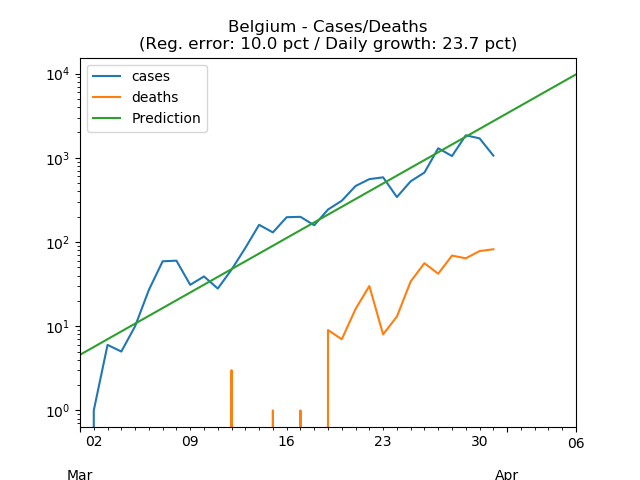
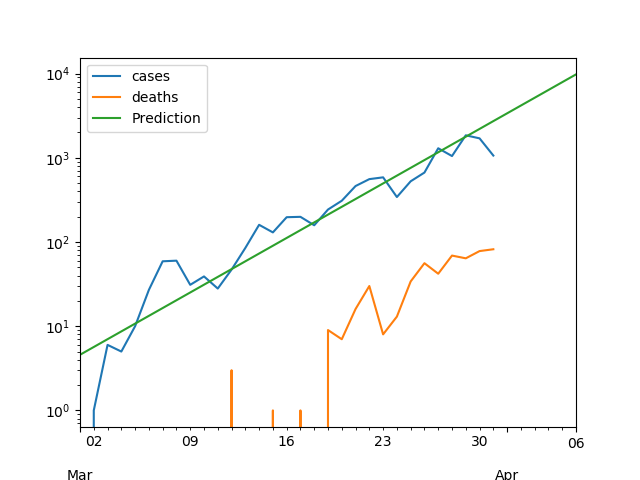
Site: Add metadata and format as cards

Changed region(s): [[0.2188, 0.0312, 0.8125, 0.125]]

diff --git a/docs/index.html b/docs/index.html
@@ -10,7 +10,7 @@
     <meta name="description" content="">
     <meta name="author" content="">
 
-    <title>Yet another Covid-19 graph</title>
+    <title>Yet another Covid-19 plots website</title>
 
     <!-- Latest compiled and minified CSS -->
     <link rel="stylesheet" href="https://maxcdn.bootstrapcdn.com/bootstrap/4.0.0/css/bootstrap.min.css" integrity="sha384-Gn5384xqQ1aoWXA+058RXPxPg6fy4IWvTNh0E263XmFcJlSAwiGgFAW/dAiS6JXm" crossorigin="anonymous">
@@ -31,8 +31,11 @@
               <img src="./assets/img/{{ country_info.image_name }}" class="card-img-top" alt="{{ country_info.country }}">
               <div class="card-body">
                 <h5 class="card-title">{{ country_info.country }}</h5>
-                <!-- <p class="card-text">Some quick example text to build on the card title and make up the bulk of the card's content.</p>
-                <a href="#" class="btn btn-primary">Go somewhere</a> -->
+                <!-- <p class="card-text">dummy</p> -->
+                <ul class="list-group list-group-flush">
+                  <li class="list-group-item">Error in prediction: {{ country_info.reg_error_pct | round: 2}}%</li>
+                  <li class="list-group-item">Daily growth: {{ country_info.daily_growth_pct | round: 2}}%</li>
+                </ul>
               </div>
             </div>
           </div>

diff --git a/plot_covid.py b/plot_covid.py
@@ -17,7 +17,7 @@ import argparse
         - plots the figures and prediction
 
     Todo:
-        - use a logarithmic yscale
+        - use a logarithmic yscale
         - make a prediction for deaths
         - check usage of dates, use index
         - "with current trend, number of cases is multiplied by X every day"
@@ -30,6 +30,7 @@ parser.add_argument("--reload", help="reload xlsx", action="store_true")
 parser.add_argument("--start_date", help="Date in format 2020-3-1", default='2020-3-1')
 parser.add_argument("--country", help="Select a specific country", default='France')
 parser.add_argument("--all", help="All favorite countries", action="store_true")
+parser.add_argument("--show", help="Show images", action="store_true")
 parser.add_argument("--days_predict", help="Number of days to predict in the future", default=7, type=int)
 args = parser.parse_args()
 
@@ -155,8 +156,9 @@ def plot_country_log(country_info_log, country, reg_error_pct, daily_growth_pct)
     ax.set_yscale('log')
     plt.xlabel("date")
     # plt.ylabel("log_10")
-    plt.title("{} - Cases/Deaths\n(Reg. error: {:.1f} pct / Daily growth: {:.1f} pct)"
-              .format(country, reg_error_pct, daily_growth_pct))
+    if args.show:
+        plt.title("{} - Cases/Deaths\n(Reg. error: {:.1f} pct / Daily growth: {:.1f} pct)"
+                  .format(country, reg_error_pct, daily_growth_pct))
     folder_images = "saved_images"
     image_name = 'img_log10_{}.png'.format(country)
     plt.savefig(os.path.join(folder_images, image_name))
@@ -169,7 +171,12 @@ def process_plot_country(country):
     country_info, reg_error_pct, daily_growth_pct = \
         add_linear_regression_log_and_prediction(country_info)
     image_name = plot_country_log(country_info, country, reg_error_pct, daily_growth_pct)
-    return image_name
+    return {
+        "country": country,
+        "image_name": image_name,
+        "reg_error_pct": reg_error_pct,
+        "daily_growth_pct": daily_growth_pct,
+    }
 
 def save_json(file_name, content):
     with open(file_name, 'w') as outfile:
@@ -183,12 +190,10 @@ else:
 images_info = []
 for country in countries:
     print("Processing {}".format(country))
-    image_name = process_plot_country(country)
-    images_info.append({
-        "country": country,
-        "image_name": image_name,
-    })
+    image_info = process_plot_country(country)
+    images_info.append(image_info)
 
 save_json(os.path.join("docs", "_data", "images_info.json"), images_info)
 
-plt.show()
+if args.show:
+    plt.show()
